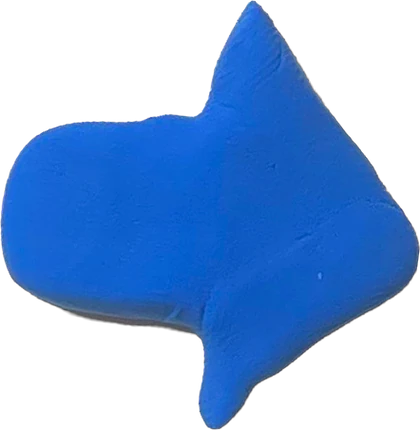
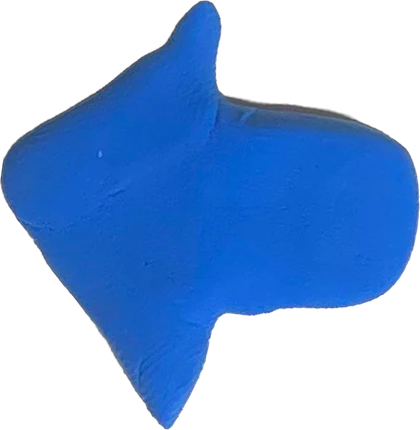
Point four of the clay arrows the right way round
Noah, with contact sheets of both sets: "the clay arrows... they are not
always pointing in the correct direction... These are arrows that are
pointing left and arrows that are pointing right."

SOURCE_ANGLE is a hand-checked table of which way each arrow lies in the
photograph, and four of its entries were 180 degrees out -- so the arrows
were aimed correctly at the resume and then drawn pointing away from it.
Built assets 1, 5, 6 and 7 (table indices 1, 6, 7 and 9, since SKIP
renumbers the rest) each get their old value plus 180.

Checked against a montage of the eight BUILT assets rather than the source
photo, which is the honest way round: what matters is which way the output
points. An automated check was tried again and is still not trustworthy --
comparing mean vertical ink extent at each end gets 7 of 8, missing a fat
pentagon whose blunt tail notch is taller than its own point, which is the
failure mode the file's docstring already describes. The contact sheet is
the check.

Verified on /about: all four on-screen arrows now aim inward at the card,
still 0.0 degrees off the measured link position.

diff --git a/tools/resume-arrows/build_arrows.py b/tools/resume-arrows/build_arrows.py
@@ -67,9 +67,28 @@ can be checked against a contact sheet rather than trusted.
 # index (1-based, in ORDER_KEY order) -> the direction the arrow points in
 # the source photograph, degrees, screen coords: 0 right, 90 down, 180 left.
 SOURCE_ANGLE = {
-    1: 8, 2: 8, 3: 187, 4: 0,
-    5: 5, 6: -8, 7: 0, 8: 0,
-    9: 183, 10: -55, 11: 183, 12: -5,
+    # 2026-08-29: four of these were 180 degrees out, and the arrows built
+    # from them pointed AWAY from the résumé. Noah, with a contact sheet of
+    # each set: "the clay arrows... they're not always pointing in the correct
+    # direction... These are arrows that are pointing left and arrows that are
+    # pointing right."
+    #
+    # Checked against a montage of the eight built assets rather than the
+    # source photo, which is the honest way round: what matters is which way
+    # the OUTPUT points, and the output is what the montage shows. Built 1, 5,
+    # 6 and 7 pointed left — table indices 1, 6, 7 and 9, since SKIP removes
+    # 4, 8, 10 and 12 and the rest renumber. Each of those four is its old
+    # value plus 180.
+    #
+    # Worth knowing for next time: an automated check was tried again here and
+    # is still not trustworthy. Comparing the mean vertical extent of the ink
+    # in the outer fifth at each end gets 7 of 8, and the one it misses is a
+    # fat pentagon whose blunt tail notch is taller than its own point — the
+    # same failure mode the docstring above describes. The contact sheet is
+    # the check.
+    1: 188, 2: 8, 3: 187, 4: 0,
+    5: 5, 6: 172, 7: 180, 8: 0,
+    9: 3, 10: -55, 11: 183, 12: -5,
 }
 
 # Not every arrow in the photo reads as one at the size these render.
